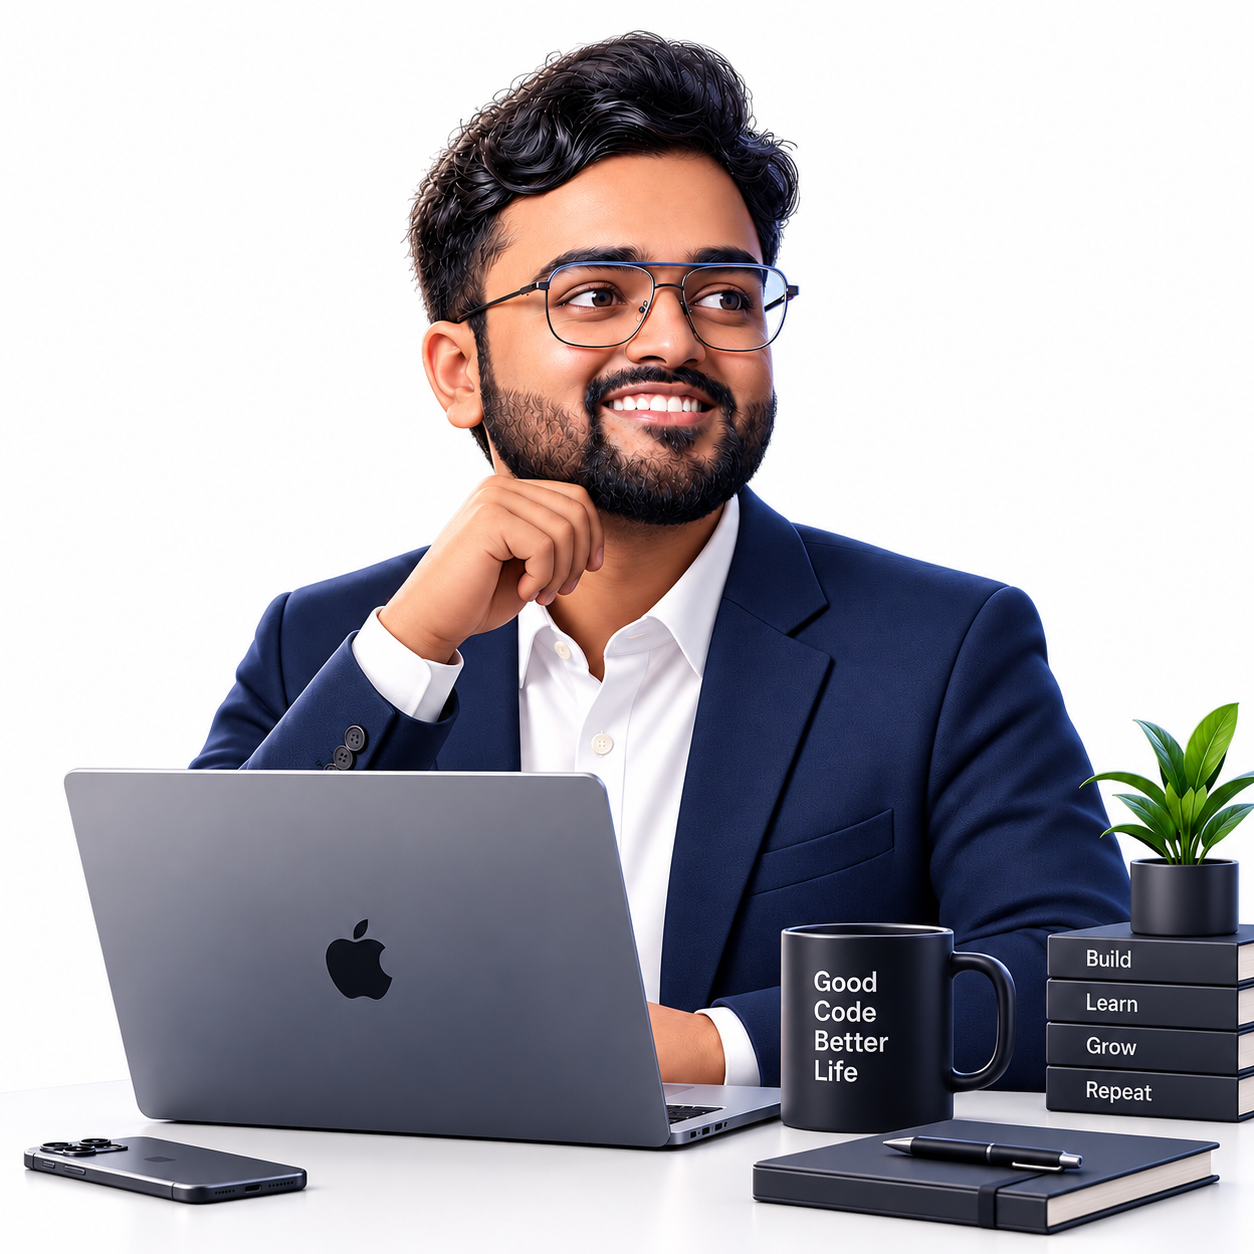
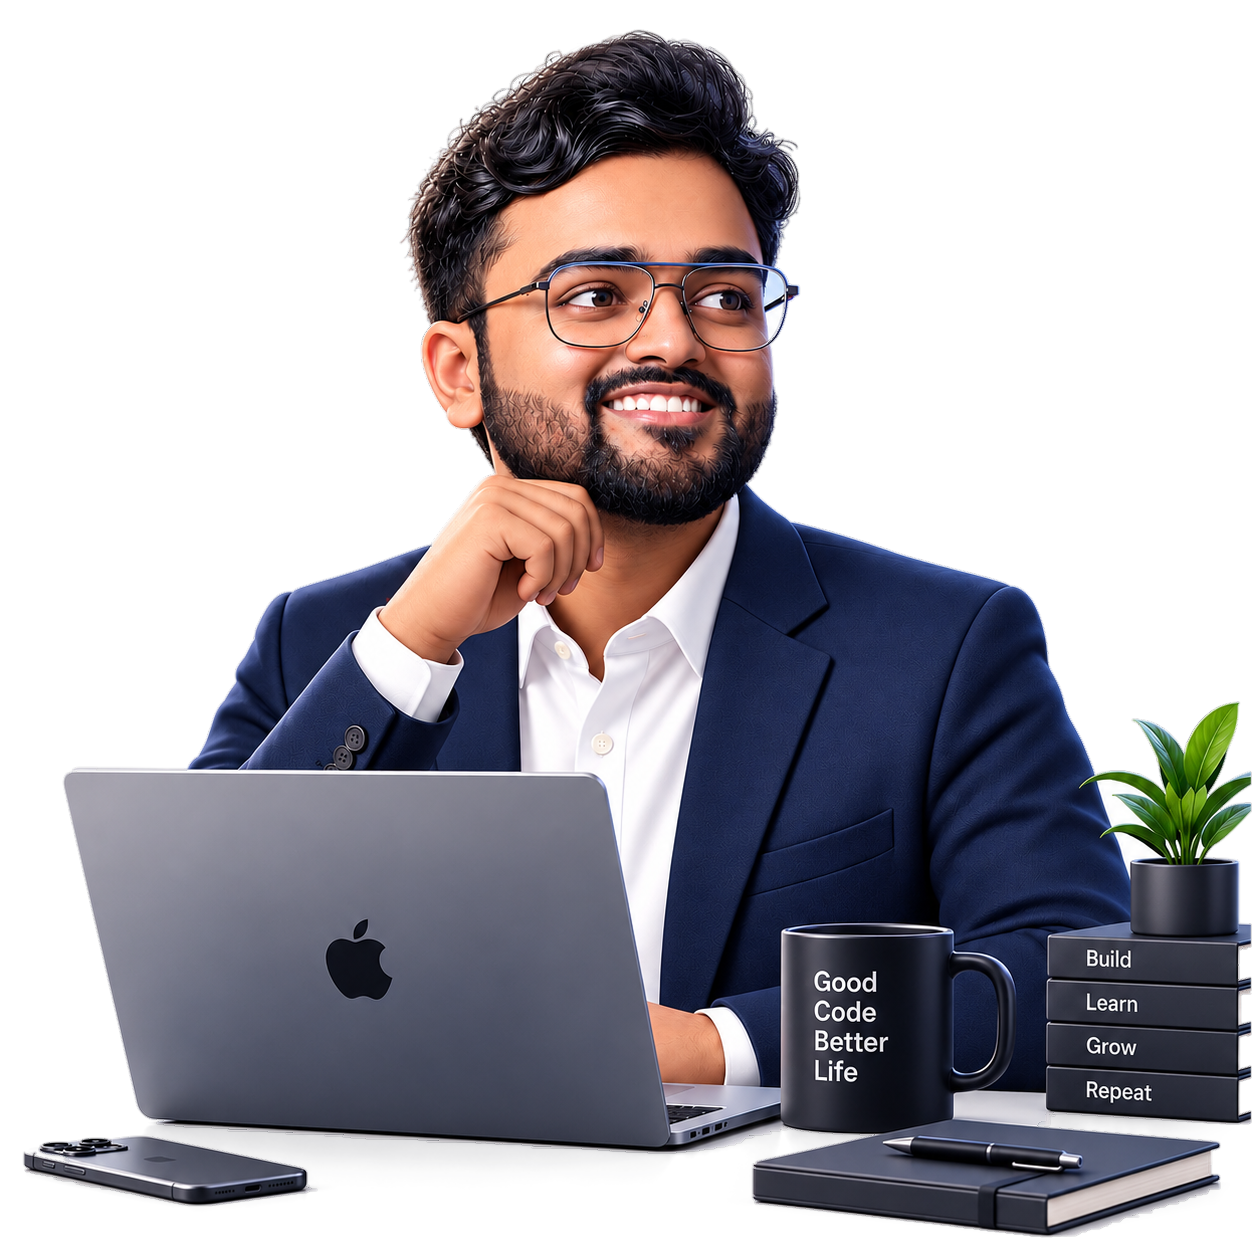
Cut out the light portrait and make the theme switch a circular reveal
The light-theme About photo shipped as an opaque white-backdrop render,
which showed on a phone as a hard white rectangle: the light page isn't
white (the aurora tints it lavender), and the radial mask on .avatar-illus
only fades the corners, since the dark cutout never needed more.

scripts/cutout_light.py now cuts it out to a transparent PNG, same idea as
the dark one. Luminance alone can't separate it — the shirt cuff (251) is
as bright as the backdrop (254) and a plain flood fill leaked through it
into the shirt — so it's a marker-based watershed on the gradient:
background grows from the frame, subject from every clearly non-white pixel
plus seeds on the shirt and cuffs, and they meet along real edges. Edge
pixels are unmixed against white using the nearest solid colour, the desk's
uniform tint is dropped, and only the real contact shadows survive, faded
toward the frame so the desk's crop line never shows.

The light render also loses its drop-shadow: the mask clips to the image
box, so the filter's halo was sliced off flat along the bottom edge —
invisible black-on-dark, a visible line on a light page.

Theme toggle: runs inside a View Transition and reveals the new theme as a
circle growing from the button, instead of every colour snapping at once.
Per-element transitions are suppressed for the duration so nothing animates
twice inside the new snapshot. No API support or reduced motion falls back
to the instant swap.

diff --git a/src/app/globals.css b/src/app/globals.css
@@ -47,11 +47,11 @@
 }
 
 /* ---- light theme ----
-   Every raster photo on the page (see .avatar-photo below) is now shot
-   against a backdrop matching its own theme's page background, and the
-   hero's illustration (HeroArt.tsx) is CSS-variable fills rather than a
-   photo at all — so nothing here needs the dark "stage" workaround earlier
-   versions of this theme relied on to hide a dark-only cutout's edges. */
+   The About portrait has a separate light-theme render cut out to a
+   transparent background (see .avatar-illus below), and the hero's
+   illustration (HeroArt.tsx) is CSS-variable fills rather than a photo at
+   all — so nothing here needs the dark "stage" workaround earlier versions
+   of this theme relied on to hide a dark-only cutout's edges. */
 :root[data-theme="light"] {
   color-scheme: light;
   --bg:        #F7F7F8;
@@ -259,6 +259,19 @@ p { margin: 0; }
 .nav-links a.active::after { display: none; }
 .nav-cta { display: flex; align-items: center; gap: 10px; }
 
+/* ---- theme switch (see ThemeToggle.tsx) ----
+   The toggle runs inside a View Transition and reveals the new theme as a
+   circle growing from the button, so the browser's default root cross-fade
+   is switched off here — the circular clip-path is the whole animation. */
+::view-transition-old(root),
+::view-transition-new(root) { animation: none; mix-blend-mode: normal; }
+::view-transition-new(root) { z-index: 2; }
+/* while the wipe runs, per-element transitions would animate a second time
+   inside the new snapshot (the About portrait visibly cross-fading) */
+:root[data-theme-switching] *,
+:root[data-theme-switching] *::before,
+:root[data-theme-switching] *::after { transition: none !important; }
+
 /* ---- theme toggle ----
    Both icons are always in the DOM; which one shows is decided here, by the
    [data-theme] attribute the inline script (layout.tsx) sets before paint —
@@ -350,17 +363,14 @@ p { margin: 0; }
   background: radial-gradient(52% 48% at 50% 40%, rgba(124,92,255,.22), transparent 72%);
   filter: blur(26px); z-index: 0;
 }
-/* Two renders, swapped by theme, each cut against a backdrop matching its
-   own page — avatar.png for dark (matches --bg exactly), avatar-light.png
-   for light (a separate photo shot on white, not a recolor of the same
-   file). Both stack in the same box and cross-fade on toggle; whichever one
-   the current theme doesn't want just sits at opacity 0. This replaces the
-   flat dark "stage" card this section used to need in light mode — sampling
-   avatar.png's alpha channel back then showed semi-transparent coverage
-   across most of the jacket and hair, which only reads correctly over a
-   flat, *matching* color, and a light photo made from the same dark-cut
-   file couldn't provide that. A real light-background photo doesn't have
-   that problem, so light mode gets to be frameless too, same as dark. */
+/* Two renders, swapped by theme, each cut out to a transparent background
+   so they sit straight on whatever the page is doing underneath (the aurora
+   tints the light page lavender, so "white" was never going to match):
+   avatar.png for dark, avatar-light.png for light — the light one is a
+   separate white-backdrop photo, cut by scripts/cutout_light.py. Shipping
+   it uncut first showed up on a phone as a hard white rectangle: the mask
+   below only fades the corners, not the edges, since the dark render never
+   needed more. Both stack in the same box and cross-fade on toggle. */
 .avatar-illus {
   position: absolute; inset: 0; margin: auto; z-index: 1;
   width: 100%; max-width: 480px; height: auto; display: block;
@@ -373,6 +383,11 @@ p { margin: 0; }
 .avatar-illus-light { opacity: 0; pointer-events: none; }
 :root[data-theme="light"] .avatar-illus-dark { opacity: 0; pointer-events: none; }
 :root[data-theme="light"] .avatar-illus-light { opacity: 1; pointer-events: auto; }
+/* no drop-shadow on the light render: the mask above clips to the image's
+   box, so the filter's blurred halo got sliced off flat at the bottom edge —
+   invisible as black-on-dark, but a visible straight line on a light page.
+   The cutout carries its own contact shadows under the laptop and phone. */
+.avatar-illus-light { filter: none; }
 @media (prefers-reduced-motion: reduce) { .avatar-illus { transition: none; } }
 
 /* ---- 3D composition (CSS scene — fallback, contained, fast) ---- */

diff --git a/src/components/ThemeToggle.tsx b/src/components/ThemeToggle.tsx
@@ -1,5 +1,6 @@
 "use client";
 
+import type { MouseEvent } from "react";
 import { SunIcon, MoonIcon } from "@/lib/icons";
 
 /**
@@ -12,17 +13,51 @@ import { SunIcon, MoonIcon } from "@/lib/icons";
  * for the real theme, and React's hydration diff doesn't tolerate that
  * (suppressHydrationWarning only papers over mismatched text/attributes on
  * one element, not a different set of child nodes).
+ *
+ * The switch itself runs inside a View Transition: the browser snapshots the
+ * old theme, we flip data-theme, and the new theme is revealed as a circle
+ * growing out of this button. Every token changes at once underneath, so it's
+ * one clean wipe instead of dozens of elements each easing their own colour
+ * on their own timing. Browsers without the API, and anyone with reduced
+ * motion set, get the instant swap.
  */
 export default function ThemeToggle() {
-  function toggle() {
+  function toggle(e: MouseEvent<HTMLButtonElement>) {
     const html = document.documentElement;
     const next = html.getAttribute("data-theme") === "light" ? "dark" : "light";
-    html.setAttribute("data-theme", next);
-    try {
-      window.localStorage.setItem("theme", next);
-    } catch {
-      // private browsing / storage disabled — theme just won't persist
+    const apply = () => {
+      html.setAttribute("data-theme", next);
+      try {
+        window.localStorage.setItem("theme", next);
+      } catch {
+        // private browsing / storage disabled — theme just won't persist
+      }
+    };
+
+    const reduce = window.matchMedia("(prefers-reduced-motion: reduce)").matches;
+    if (reduce || typeof document.startViewTransition !== "function") {
+      apply();
+      return;
     }
+
+    const r = e.currentTarget.getBoundingClientRect();
+    const x = r.left + r.width / 2;
+    const y = r.top + r.height / 2;
+    const radius = Math.hypot(Math.max(x, window.innerWidth - x), Math.max(y, window.innerHeight - y));
+
+    // per-element colour transitions would fight the wipe (and the about
+    // portrait would cross-fade inside it) — the wipe *is* the transition
+    html.setAttribute("data-theme-switching", "");
+    const transition = document.startViewTransition(apply);
+    transition.ready
+      .then(() => {
+        html.animate(
+          { clipPath: [`circle(0px at ${x}px ${y}px)`, `circle(${radius}px at ${x}px ${y}px)`] },
+          { duration: 700, easing: "cubic-bezier(.22,.8,.26,1)", pseudoElement: "::view-transition-new(root)" },
+        );
+      })
+      .catch(() => {});
+    transition.finished.finally(() => html.removeAttribute("data-theme-switching"));
   }
 
   return (

diff --git a/scripts/cutout_light.py b/scripts/cutout_light.py
@@ -1,0 +1,78 @@
+"""Usage: python3 scripts/cutout_light.py <white-bg-render.png> <out.png>
+
+Cut the white studio backdrop out of the light-theme portrait.
+
+Luminance alone can't do it: the shirt cuff (251) is as bright as the
+backdrop (254). So this is a marker-based watershed on the gradient:
+background grows in from the frame, foreground from every clearly
+non-white pixel plus seeds on the shirt/cuffs, and they meet along real
+edges. The desk's contact shadows stay as soft semi-transparent shade so
+they read on any page colour.
+"""
+import sys
+import numpy as np
+from PIL import Image
+from scipy import ndimage as ndi
+
+src, out = sys.argv[1], sys.argv[2]
+C = np.array(Image.open(src).convert("RGB")).astype(np.float32)
+H, W, _ = C.shape
+lum = 0.2126*C[...,0] + 0.7152*C[...,1] + 0.0722*C[...,2]
+sat = C.max(-1) - C.min(-1)
+
+# gradient cost (edges are expensive to cross)
+g = np.hypot(ndi.sobel(lum, 0), ndi.sobel(lum, 1))
+cost = np.clip(g / g.max() * 255 * 3, 0, 255).astype(np.uint8)
+
+markers = np.zeros((H, W), np.int16)
+markers[(lum < 185) | (sat > 30)] = 2                     # clearly not backdrop
+for (y, x, r) in [(640, 560, 18), (950, 645, 22), (1040, 725, 12),
+                  (700, 600, 18), (860, 620, 20), (660, 420, 10)]:
+    yy, xx = np.ogrid[:H, :W]
+    markers[(yy - y)**2 + (xx - x)**2 <= r*r] = 2        # shirt / cuffs
+frame = np.zeros((H, W), bool); frame[:3] = frame[-3:] = True; frame[:, :3] = frame[:, -3:] = True
+markers[frame] = 1
+
+lab = ndi.watershed_ift(cost, markers)
+bg = lab == 1
+
+# soft shade for the backdrop region: darker-than-white pixels there are
+# contact shadows, re-expressed as a translucent dark tone
+S = np.array([26, 26, 38], np.float32)
+Lbg, Ls = 252.0, 0.2126*S[0] + 0.7152*S[1] + 0.0722*S[2]
+a_bg = np.clip((Lbg - lum) / (Lbg - Ls), 0, 1)
+# the desk surface itself reads as a faint uniform tint; drop that floor so
+# only real contact shadows (under the laptop, phone, notebook) survive
+a_bg = np.clip((a_bg - 0.07) / 0.93, 0, 1)
+# and fade whatever shade is left toward the frame, so the crop line of the
+# desk never shows as a straight edge on the page
+yy, xx = np.mgrid[:H, :W]
+edge = np.minimum.reduce([yy, H - 1 - yy, xx, W - 1 - xx]).astype(np.float32)
+t = np.clip(edge / 140.0, 0, 1)
+a_bg = a_bg * (t * t * (3 - 2 * t))
+
+alpha = np.where(bg, a_bg, 1.0)
+rgb = np.where(bg[..., None], S, C)
+
+# Edge band on the subject (curls, glasses arms, leaf tips): those pixels are
+# anti-aliased blends with the white backdrop. Unmix each against white using
+# the nearest *solid* subject pixel as its true colour, so the white share
+# becomes transparency instead of a pale fringe.
+fg = ~bg
+band = fg & (ndi.distance_transform_edt(fg) <= 4)
+solid = (lum < 185) | (sat > 30)
+_, (iy, ix) = ndi.distance_transform_edt(~solid, return_indices=True)
+Fin = C[iy, ix]
+Lin = 0.2126*Fin[...,0] + 0.7152*Fin[...,1] + 0.0722*Fin[...,2]
+a_band = np.clip((255 - lum) / np.maximum(255 - Lin, 1), 0, 1)
+unmix = (C - (1 - a_band[..., None]) * 255) / np.maximum(a_band[..., None], 1e-3)
+F_band = np.where(a_band[..., None] > 0.35, np.clip(unmix, 0, 255), Fin)
+alpha = np.where(band, a_band, alpha)
+rgb = np.where(band[..., None], F_band, rgb)
+
+# hairline feather
+alpha = ndi.gaussian_filter(alpha, 0.6)
+
+out_im = np.dstack([np.clip(rgb, 0, 255), np.clip(alpha, 0, 1) * 255]).astype(np.uint8)
+Image.fromarray(out_im).save(out, optimize=True)
+print("bg fraction", round(float(bg.mean()), 3))
